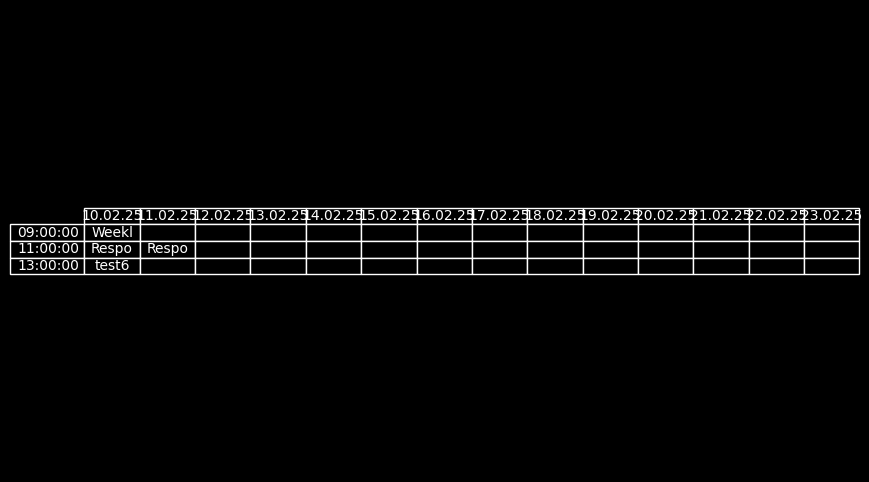
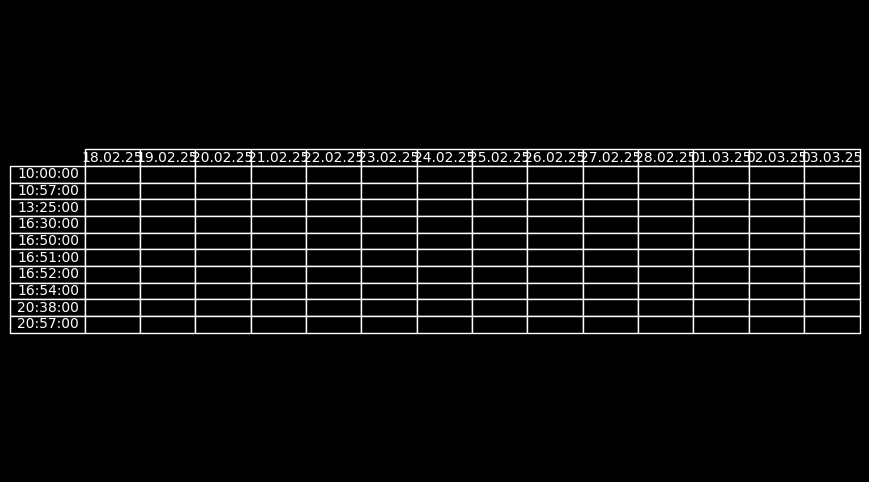
net after net

Changed region(s): [[0.0, 0.2801, 0.9942, 0.7158]]

diff --git a/bot for pp isp g10.py b/bot for pp isp g10.py
@@ -330,7 +330,7 @@ def shift_events_to_excel(data1, data2, tablename, language="en"):
     for event in all_events:
         if len(event) == 6:
             print(event)
-            event_day_offset = int(event[1]) - 2  # Day of the week (2=Monday)
+            event_day_offset = (int(event[1]) % 7) + 1  # Convert to desired format, Day of the week (2=Monday)
             event_time = event[2]
             event_name = event[3]
         elif len(event) == 5:
@@ -1119,16 +1119,26 @@ async def get_user_plan(update: Update, context: ContextTypes.DEFAULT_TYPE) -> N
     data = {date: ["" for _ in time_slots] for date in dates}
 
     for event in all_events:
-        if len(event) == 6:
-            event_day_offset = event[1] - 2
+        if len(event) == 6:  # Recurring event
+            if isinstance(event[1], int):  # Check if it's a number (day of week)
+                event_day_offset = event[1] - 2  # Convert weekday number (2 = Monday, ...) to offset
+            else:
+                print(f"Skipping event {event}, unexpected format for recurring event!")
+                continue
             event_time = event[2]
             event_name = event[3][:5]
-        elif len(event) == 5:
-            event_datetime = datetime.strptime(event[1], "%H:%M:%S %d.%m.%y")
-            event_day_offset = (event_datetime - datetime.now()).days
-            event_time = event_datetime.strftime("%H:%M:%S")
-            event_name = event[2][:5]
+
+        elif len(event) == 5:  # Single event (specific date)
+            try:
+                event_datetime = datetime.strptime(event[1], "%H:%M:%S %d.%m.%y")
+                event_day_offset = (event_datetime - datetime.now()).days
+                event_time = event_datetime.strftime("%H:%M:%S")
+                event_name = event[2][:5]
+            except ValueError as e:
+                print(f"Skipping event {event}, invalid date format: {e}")
+                continue
         else:
+            print(f"Skipping unknown event format: {event}")
             continue
 
         if 0 <= event_day_offset < 14:
@@ -1138,7 +1148,7 @@ async def get_user_plan(update: Update, context: ContextTypes.DEFAULT_TYPE) -> N
                 print(f"Warning: Skipping event '{event_name}' at {event_time}, not found in time_slots!")
 
     df = pd.DataFrame(data, index=time_slots)
-    fig, ax = plt.subplots(figsize=(10, 6))
+    fig, ax = plt.subplots(figsize=(12, 8))
     if theme == "dark":
         bg_color = "black"
         text_color = "white"
